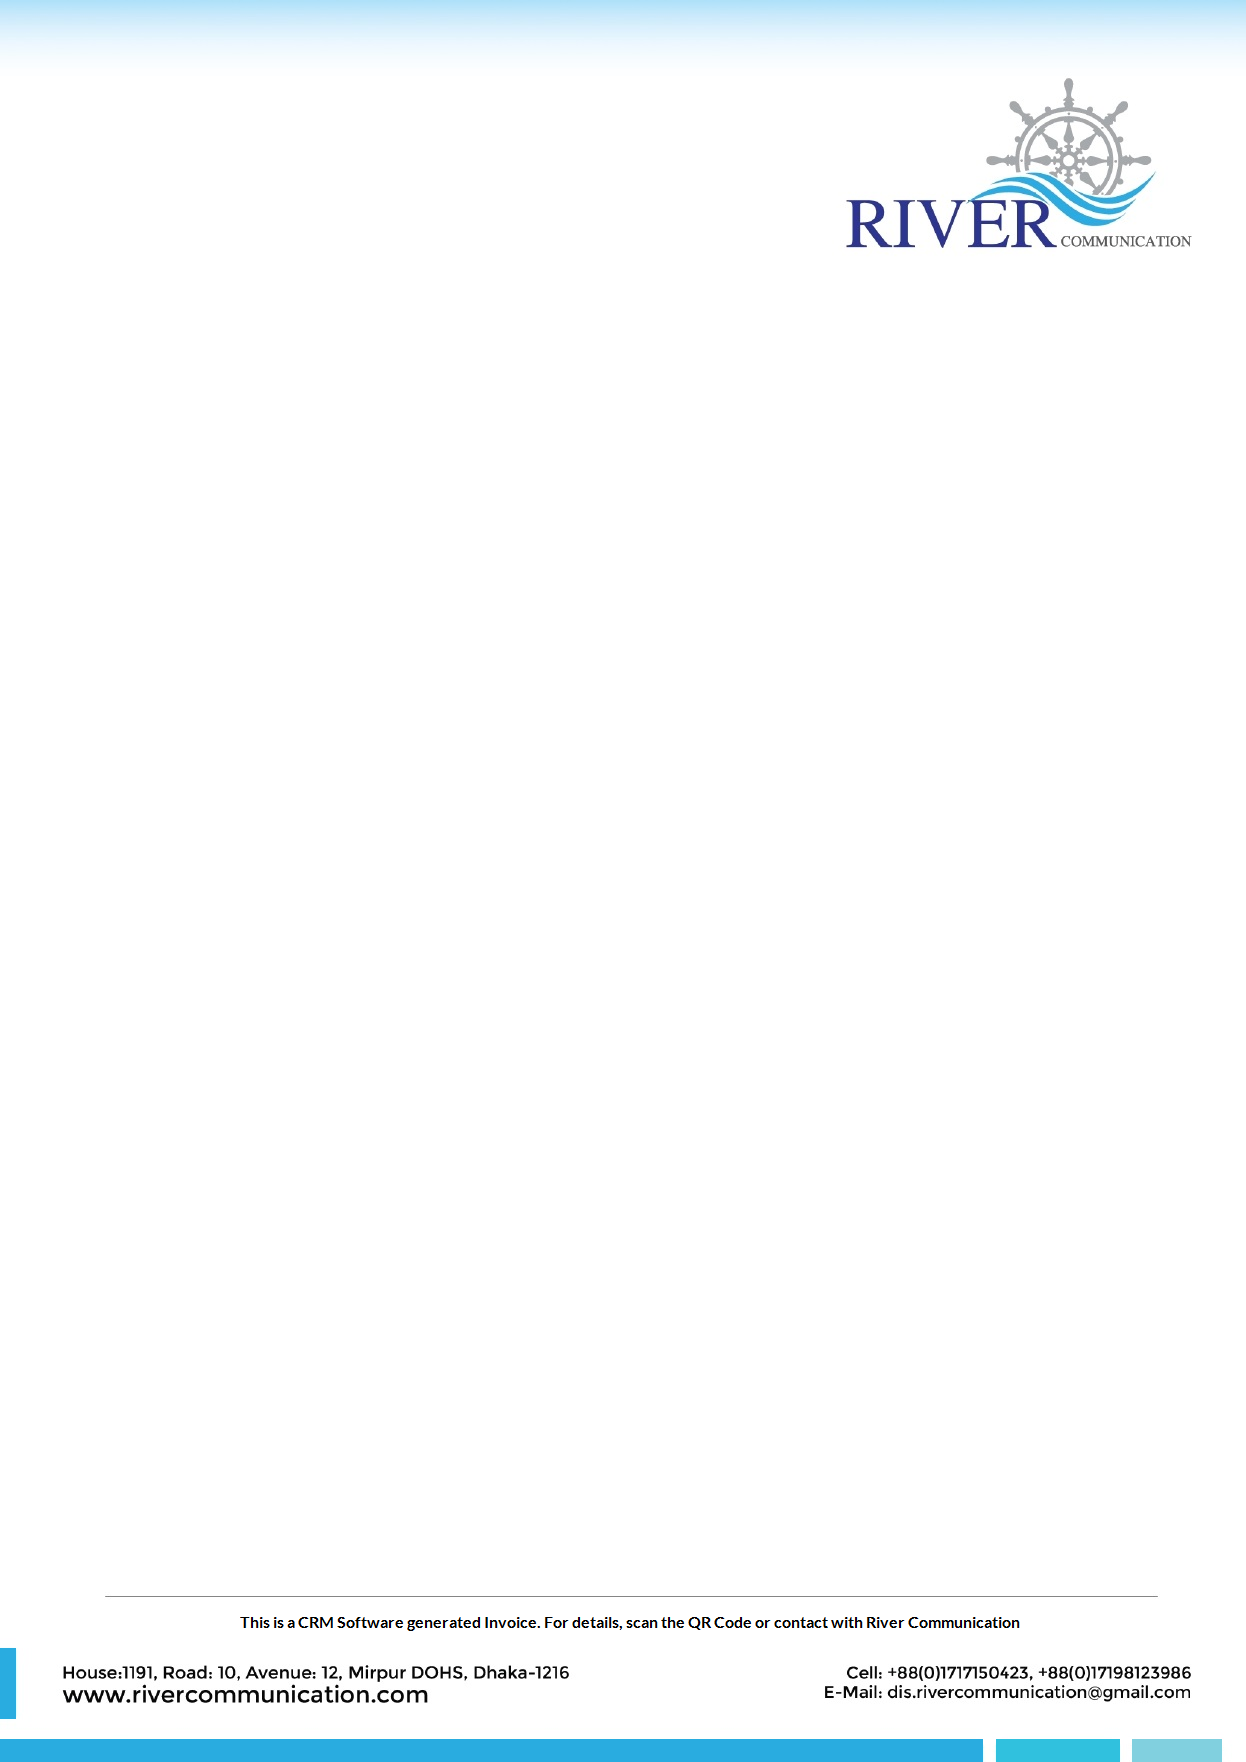
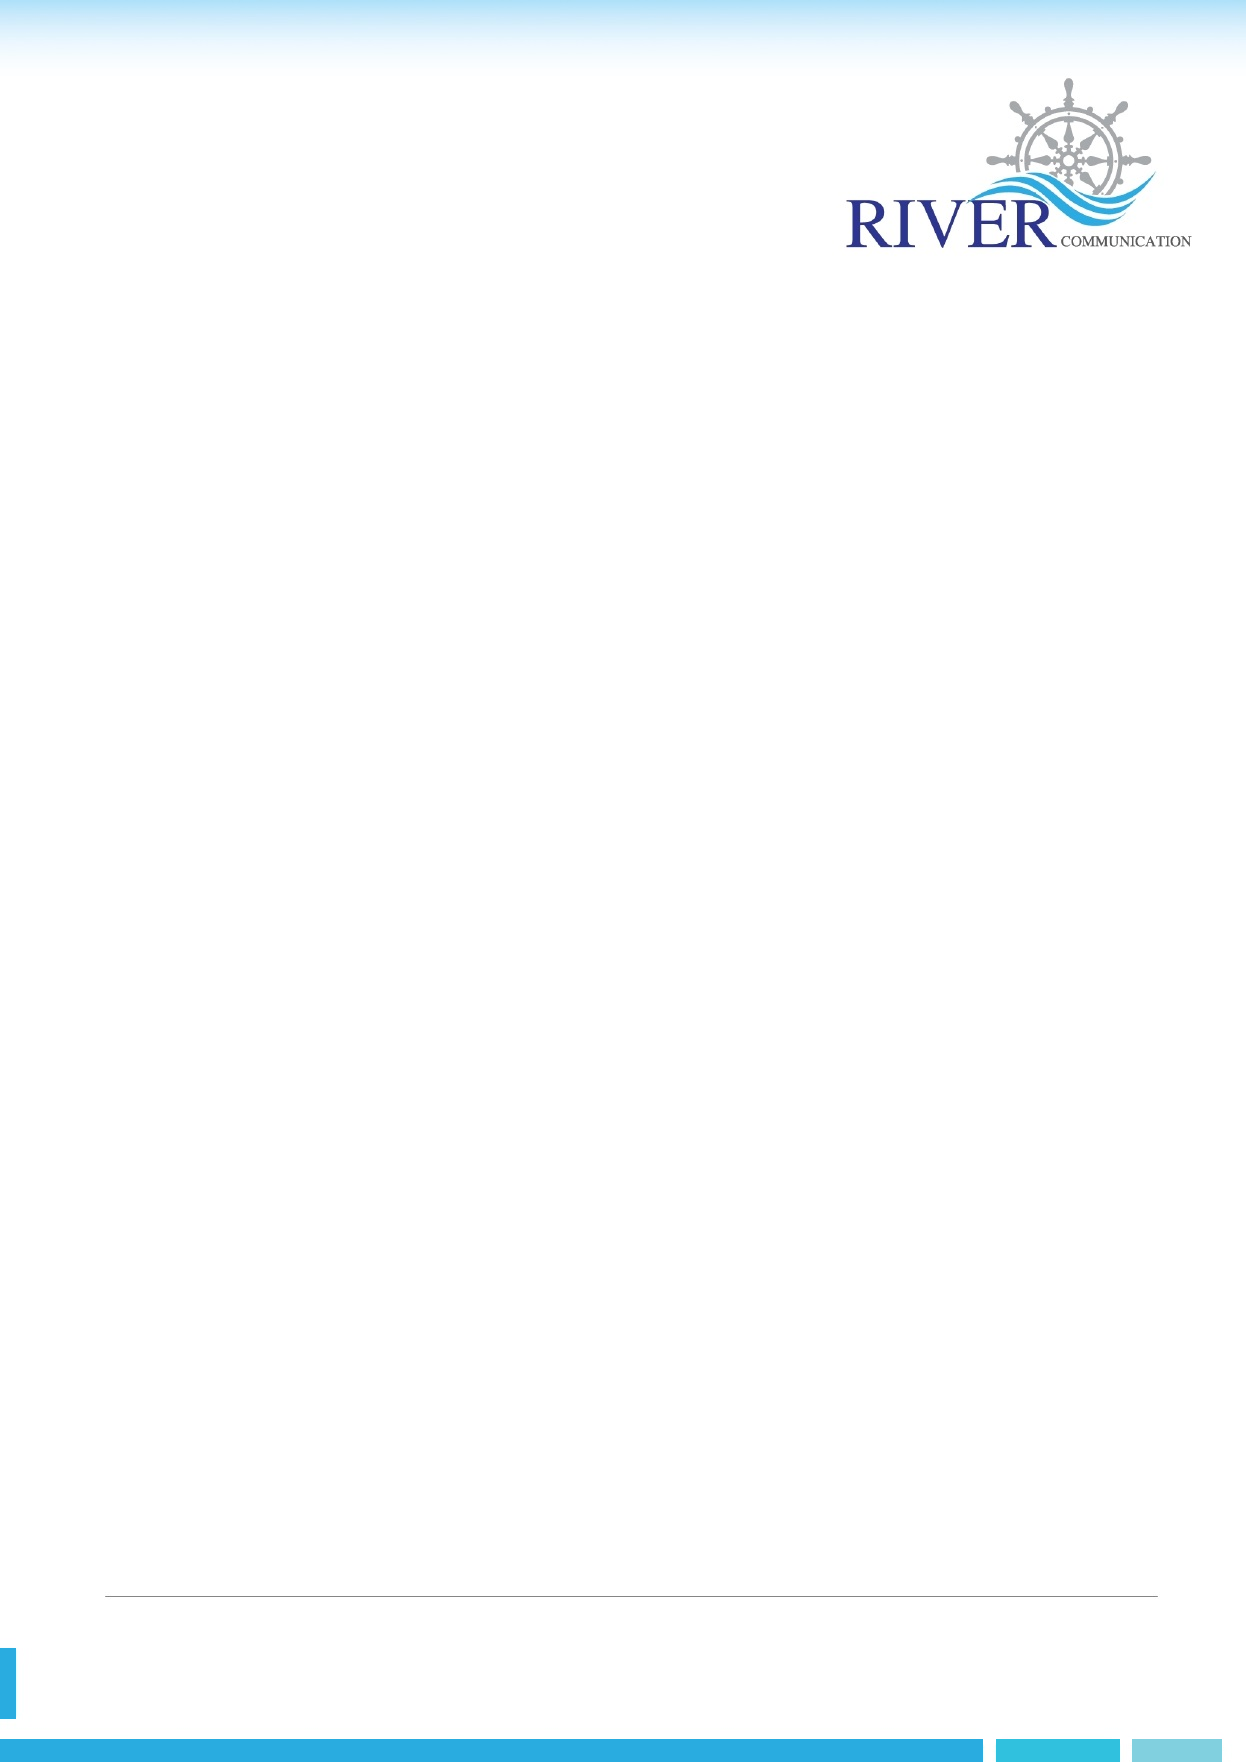
- footer element for invoiceBD removed & added by text

diff --git a/src/pages/invoice-download/Preview.vue b/src/pages/invoice-download/Preview.vue
@@ -190,7 +190,7 @@
 											Total VAT Amount: <br>
 										</div>
 										<div class="col-6 text-right q-pr-sm">
-											<span style="font-weight: bold;"> {{$helper.numberWithCommas(invoiceData.totalMRP)}} BDT</span> <br>
+											<span style="font-weight: bold;"> {{$helper.numberWithCommas(totalGross)}} BDT</span> <br>
 											{{totalDiscount === 0? '-' : $helper.numberWithCommas(totalDiscount)}} BDT<br>
 											0% BDT<br>
 										</div>
@@ -248,6 +248,19 @@
 							<q-img src="images/qrcode.png" width="200px" style="margin: 9px 21px 8px 13px; border: 1px solid;"/>
 						</div>
 					</div>
+					<div class="text-center" style="font-size: 10px; margin-top: 20px">
+						This is a CRM Software generated Invoice. For details, scan the QR Code or contact with River Communication
+					</div>
+					<div class="row" style="font-size: 11px; margin-top: 20px; margin-left: 36px; margin-right: 36px">
+						<div class="col-6">
+							House: 1191, Avenue: 12, Road: 10, Mirpur DOHS, Dhaka - 1216 <br>
+							<span class="text-bold">www.rivercommunication.com</span>
+						</div>
+						<div class="col-6 text-right">
+							Cell: +88(0)1717150423, +88(0)17198123986 <br>
+							E-Mail: dis.rivercommunication@gmail.com
+						</div>
+					</div>
 				</page>
 			</q-page>
 		</q-page-container>
@@ -265,6 +278,7 @@ export default class List extends Vue {
 	tableLength: number = 0
 	invoiceID : any
 	invoiceData: any[] = []
+	totalGross: number = 0
 	totalDiscount: number = 0
 
 	created() {
@@ -290,9 +304,9 @@ export default class List extends Vue {
 						this.tableLength = 16 - this.invoiceData.invoiceDetails.length;
 						//@ts-ignore
 						this.invoiceData.invoiceDetails.forEach((item) => {
+							this.totalGross += (item.unitMRP * item.quantity);
 							this.totalDiscount += ((item.unitMRP * item.quantity * item.discount) / 100);
 						})
-						console.log(this.totalDiscount);
 					}
 				}
 			}
